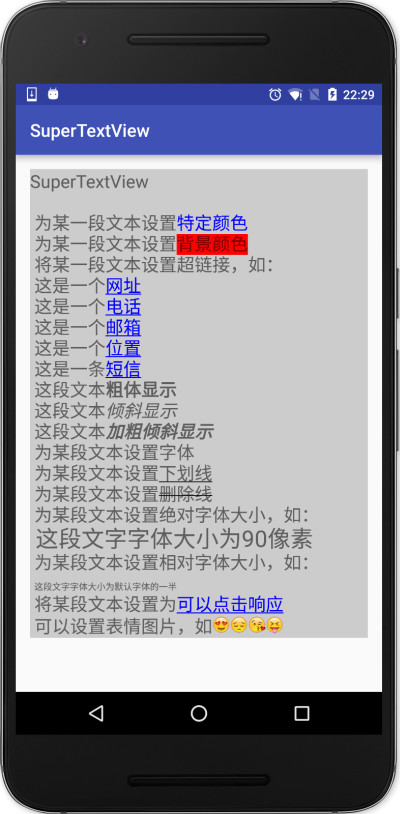
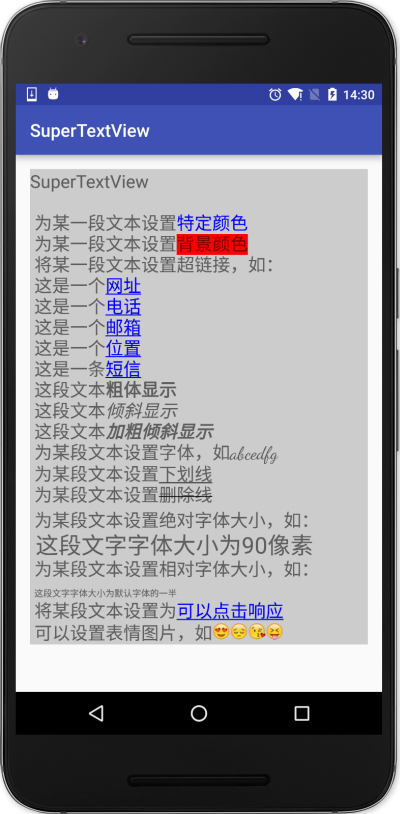
change a font family

Changed region(s): [[0.06, 0.5221, 0.93, 0.7985], [0.84, 0.0921, 0.93, 0.1229], [0.72, 0.0921, 0.75, 0.1229]]

diff --git a/app/src/main/java/com/aspook/supertextview/MainActivity.java b/app/src/main/java/com/aspook/supertextview/MainActivity.java
@@ -52,19 +52,19 @@ public class MainActivity extends AppCompatActivity {
         mSuperTextView.setStyleSpan(Typeface.BOLD_ITALIC, 124, 130);
 
         // 为某段文本设置特殊字体
-        mSuperTextView.setTypefaceSpan("sans-serif", 131, 141);
+        mSuperTextView.setTypefaceSpan("cursive", 143, 150);
 
         // 为某段文本设置下划线
-        mSuperTextView.setUnderlineSpan(150, 153);
+        mSuperTextView.setUnderlineSpan(159, 162);
 
         // 为某段文本设置删除线
-        mSuperTextView.setStrikethroughSpan(162, 165);
+        mSuperTextView.setStrikethroughSpan(171, 174);
 
         // 为某段文本设置绝对字体大小
-        mSuperTextView.setAbsoluteSizeSpan(90, false, 184, 198);
+        mSuperTextView.setAbsoluteSizeSpan(90, false, 192, 207);
 
         // 为某段文本设置相对字体大小
-        mSuperTextView.setRelativeSizeSpan(0.5f, 218, 234);
+        mSuperTextView.setRelativeSizeSpan(0.5f, 227, 243);
 
         // 为某段文本设置点击响应
         mSuperTextView.setClickableSpan(new ClickableSpan() {
@@ -72,7 +72,7 @@ public class MainActivity extends AppCompatActivity {
             public void onClick(View widget) {
                 Toast.makeText(MainActivity.this, "these text was clicked", Toast.LENGTH_SHORT).show();
             }
-        }, 244, 250);
+        }, 253, 259);
 
         // 为SuperTextView设置表情图片
         mSuperTextView.appendImageSpan(this, R.drawable.emoji_love);
